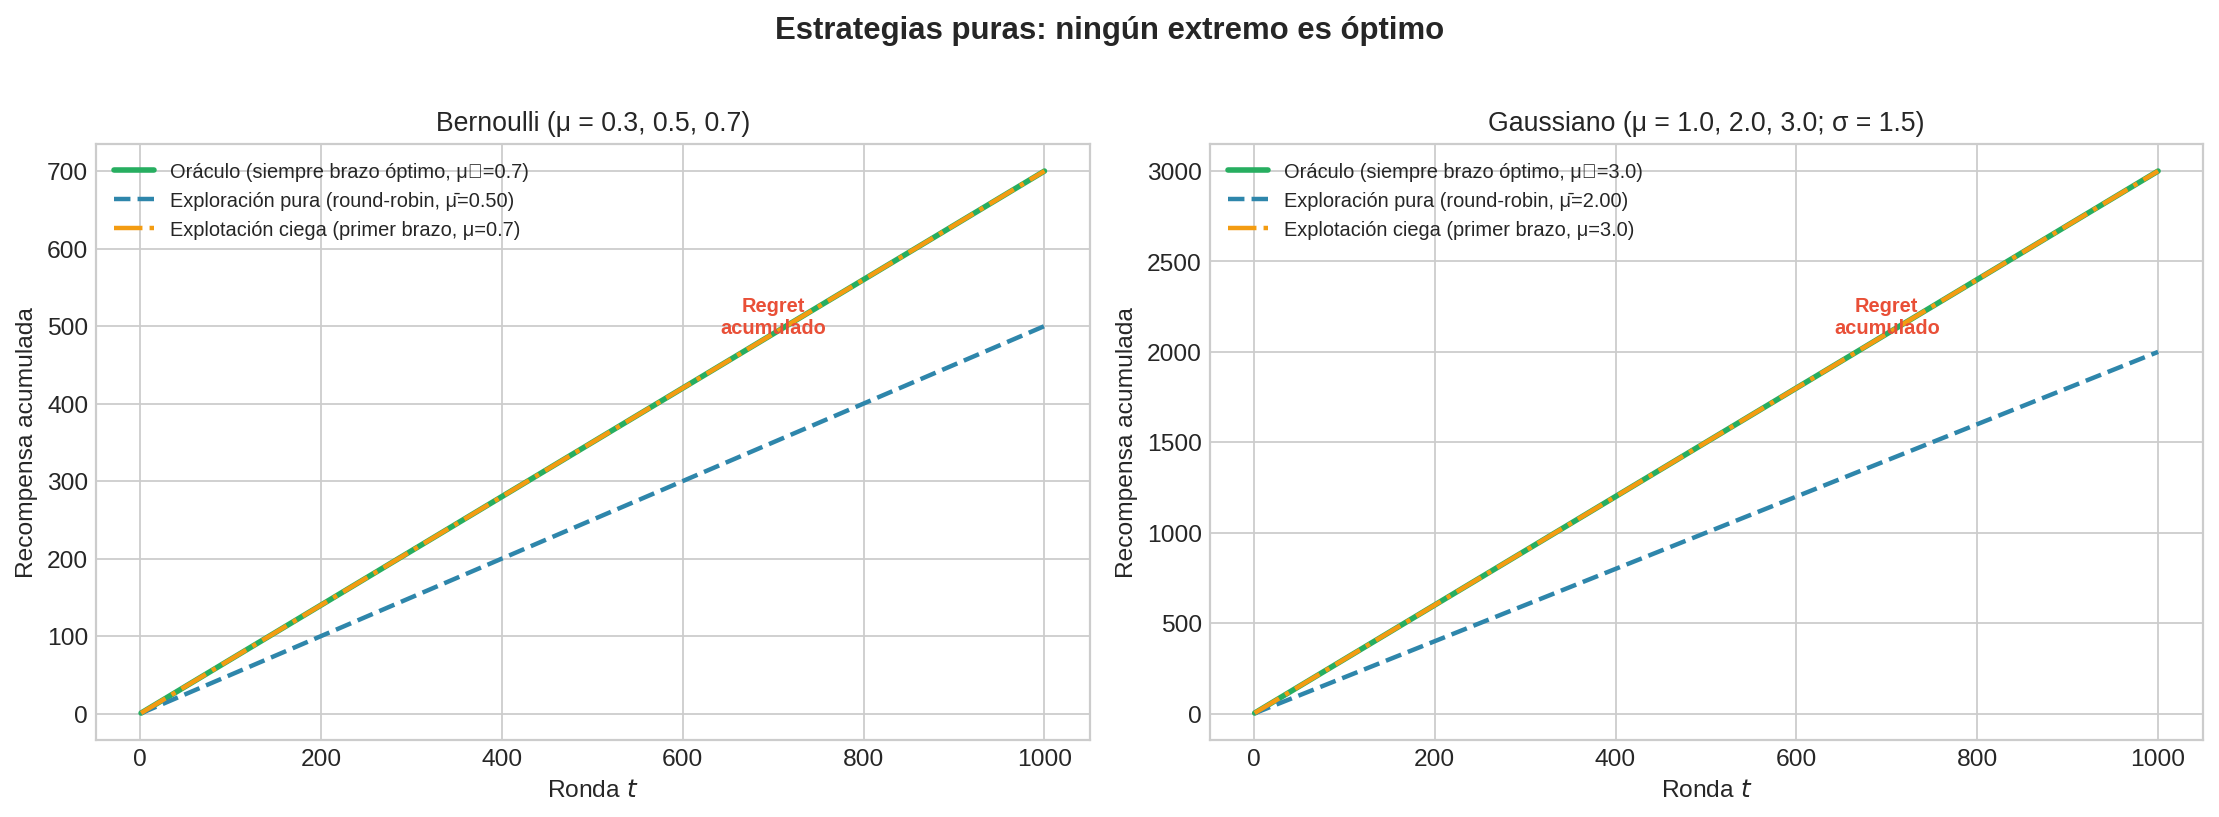
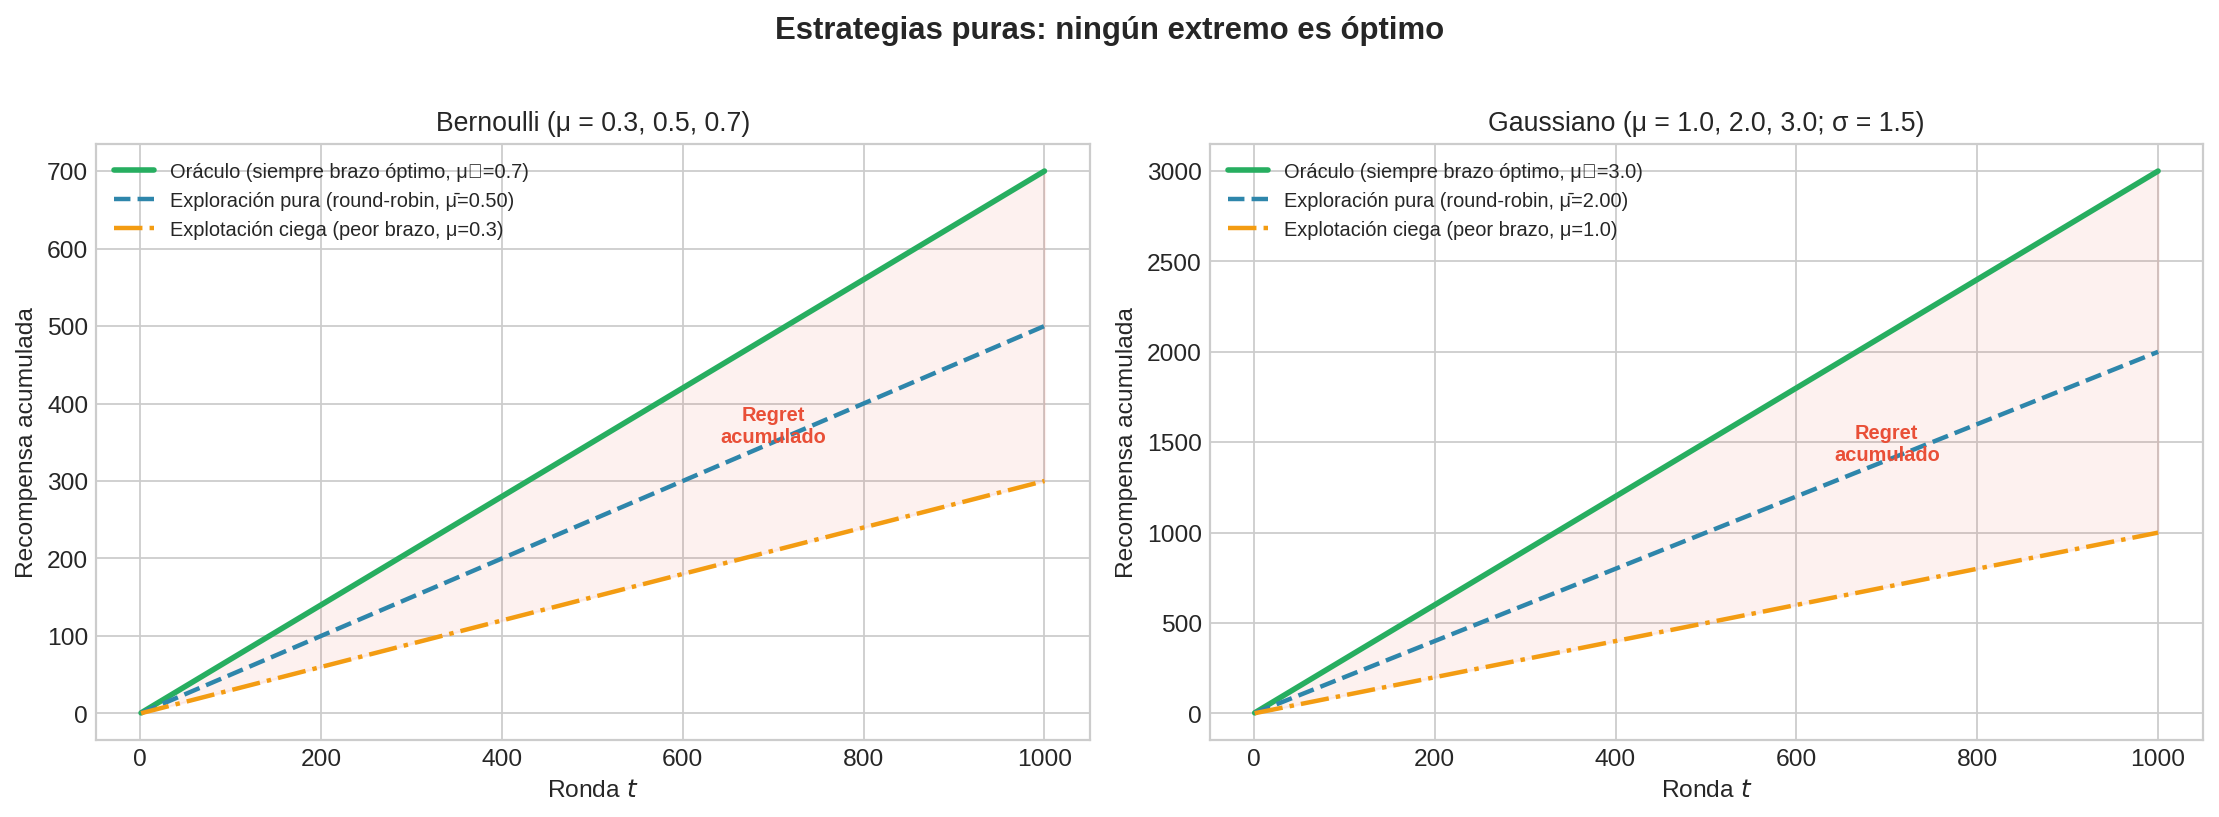
fix pure strategies plot: show worst arm, not best
Exploitation line was using seed that picked the best arm (C),
making it overlap with the oracle. Now explicitly uses the worst
arm (A) to clearly show the regret gap between strategies.

diff --git a/clase/17_multi_armed_bandits/lab_bandits.py b/clase/17_multi_armed_bandits/lab_bandits.py
@@ -553,30 +553,26 @@ def plot_04_pure_strategies():
         explore_mean = np.mean(mus)
         explore = explore_mean * t_vals
 
-        # Pure exploitation of WORST arm (pessimistic greedy start)
-        exploit_worst = min(mus) * t_vals
-
-        # Pure exploitation of RANDOM first arm
-        rng = np.random.RandomState(42)
-        first_arm = rng.randint(K)
-        exploit_random = mus[first_arm] * t_vals
+        # Pure exploitation of worst arm (worst-case greedy start)
+        mu_worst = min(mus)
+        exploit_worst = mu_worst * t_vals
 
         ax.plot(t_vals, oracle, color=COLORS["green"], linewidth=2.5,
                 label=f"Oráculo (siempre brazo óptimo, μ∗={mu_star})")
         ax.plot(t_vals, explore, color=COLORS["blue"], linewidth=2,
                 linestyle="--",
                 label=f"Exploración pura (round-robin, μ̄={explore_mean:.2f})")
-        ax.plot(t_vals, exploit_random, color=COLORS["orange"], linewidth=2,
+        ax.plot(t_vals, exploit_worst, color=COLORS["orange"], linewidth=2,
                 linestyle="-.",
-                label=f"Explotación ciega (primer brazo, μ={mus[first_arm]})")
-        ax.fill_between(t_vals, exploit_random, oracle, alpha=0.08,
+                label=f"Explotación ciega (peor brazo, μ={mu_worst})")
+        ax.fill_between(t_vals, exploit_worst, oracle, alpha=0.08,
                         color=COLORS["red"])
         ax.set_xlabel("Ronda $t$", fontsize=11)
         ax.set_ylabel("Recompensa acumulada", fontsize=11)
         ax.set_title(title, fontsize=12)
         ax.legend(fontsize=9, loc="upper left")
         ax.annotate("Regret\nacumulado",
-                    xy=(700, (oracle[699] + exploit_random[699]) / 2),
+                    xy=(700, (oracle[699] + exploit_worst[699]) / 2),
                     fontsize=9, color=COLORS["red"], fontweight="bold",
                     ha="center")
 

diff --git a/clase/17_multi_armed_bandits/01_el_dilema.md b/clase/17_multi_armed_bandits/01_el_dilema.md
@@ -172,7 +172,7 @@ donde $\Delta_i = \mu^{∗} - \mu_i$ es la brecha del brazo $i$ y $N_i(T)$ es el
 
 ![Estrategias puras]({{ '/17_multi_armed_bandits/images/04_pure_strategies.png' | url }})
 
-- **Explotación pura** (siempre jalar el primer brazo que pruebes): si por suerte empezaste con C, excelente. Si empezaste con A, regret lineal de $0.4T$.
+- **Explotación pura** (siempre jalar un brazo fijo sin explorar): si por suerte eliges C, excelente. Pero si caes en A (el peor), el regret crece linealmente como $\Delta_A \cdot T = 0.4T$.
 - **Exploración pura** (round-robin): recompensa promedio $\bar{\mu} = \frac{1}{K}\sum_i \mu_i$, siempre peor que $\mu^{∗}$. Regret lineal de $(\mu^{∗} - \bar{\mu})T$.
 - **Oráculo** (siempre el mejor brazo): regret = 0. Pero requiere saber las distribuciones de antemano.
 
